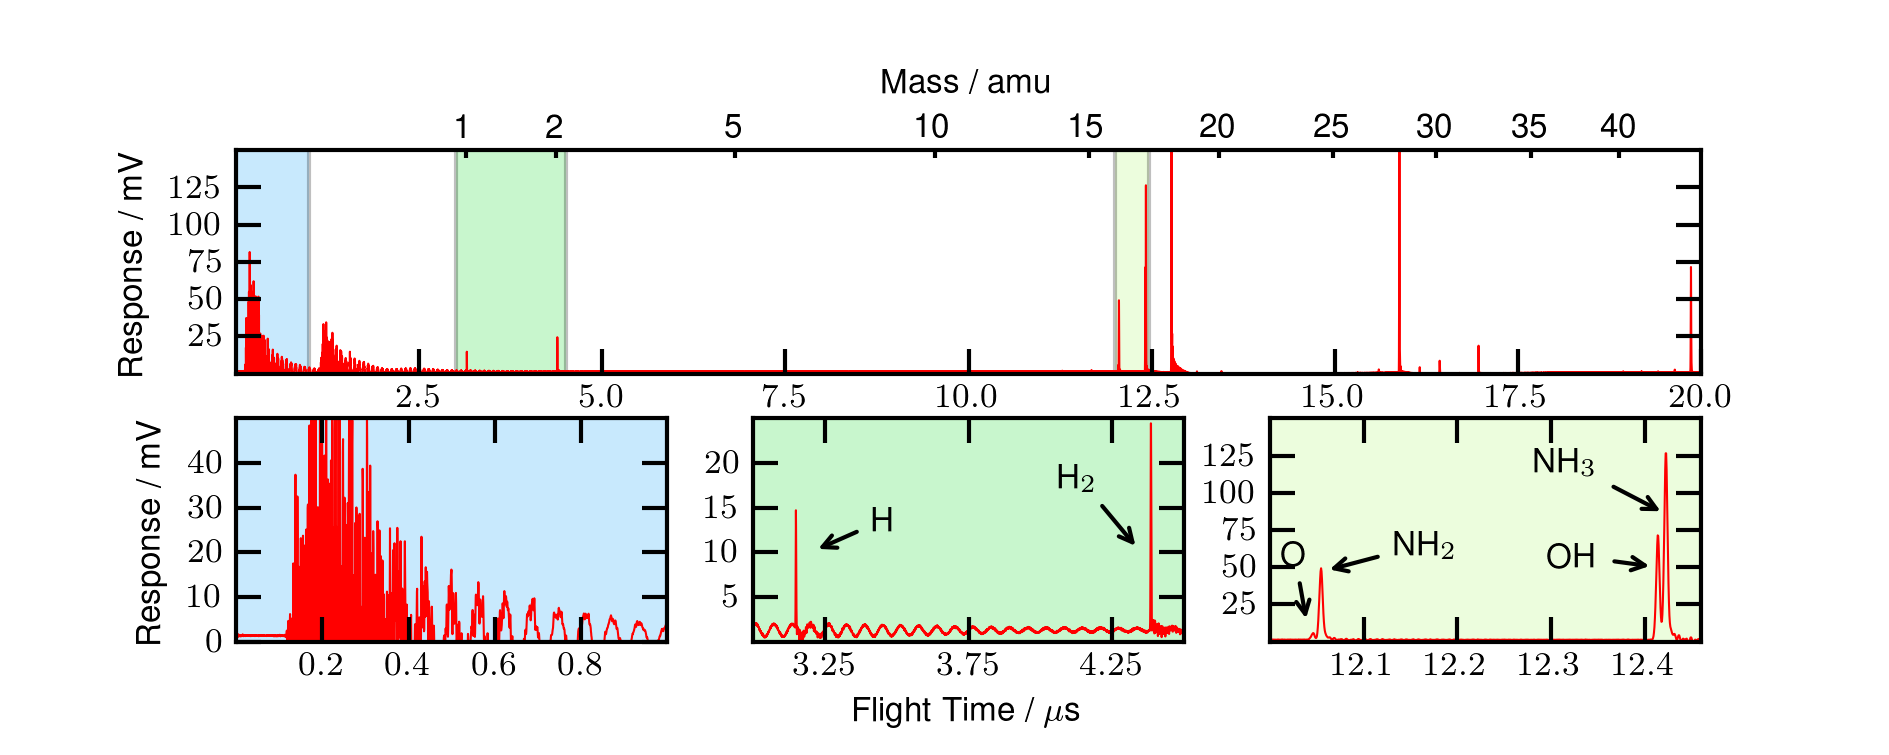
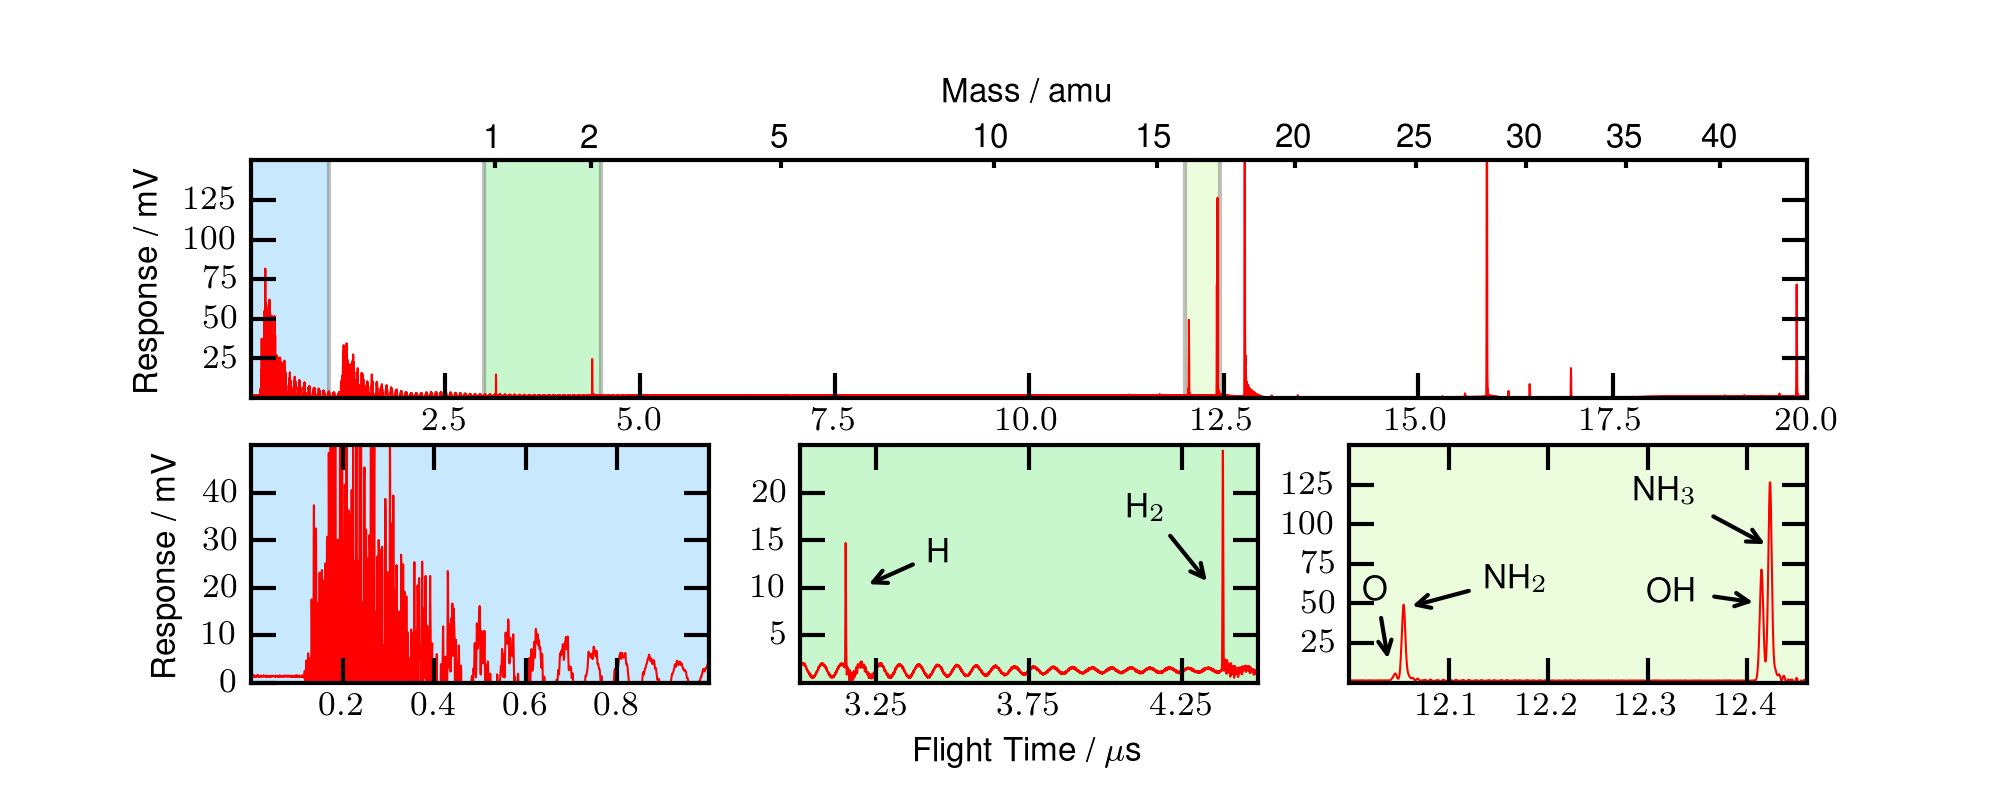
Changed figure sizes and resolutions

diff --git a/python_figures/dynamic_range.py b/python_figures/dynamic_range.py
@@ -21,7 +21,7 @@ cursor = db.cursor()
 fig = plt.figure()
 fig.subplots_adjust(bottom=0.2) # Make room for x-label
 fig.subplots_adjust(top=0.9) # Make room for extra x-label
-fig.subplots_adjust(wspace=0.25)
+fig.subplots_adjust(wspace=0.4)
 fig.subplots_adjust(hspace=0.25)
 ratio = 0.6
 fig_width = 8.5
@@ -43,12 +43,15 @@ masses.append(['O$_2$',16.972,8])
 
 x_ticks = []
 y_ticks = []
-x_ticks.append([12.767,12.777,12.787])
-x_ticks.append([4.377,4.387,4.397])
-x_ticks.append([16.962,16.972,16.982])
-y_ticks.append([100,200,300,400])
-y_ticks.append([5,10,15])
-y_ticks.append([0.2,0.4,0.6])
+#x_ticks.append([12.767,12.777,12.787])
+#x_ticks.append([4.377,4.387,4.397])
+#x_ticks.append([16.962,16.972,16.982])
+x_ticks.append([12.767,12.787])
+x_ticks.append([4.377,4.397])
+x_ticks.append([16.962,16.982])
+y_ticks.append([0,100,200,300,400])
+y_ticks.append([0,5,10,15])
+y_ticks.append([0,0.2,0.4,0.6])
 
 fit = []
 
@@ -113,5 +116,5 @@ for mass in masses:
 
 #plt.tight_layout()
 #plt.show()
-plt.savefig('../dynamic_range.png',dpi=300)
+plt.savefig('../dynamic_range.png',dpi=600)
 

diff --git a/python_figures/ammonia_OH_gauss_fit.py b/python_figures/ammonia_OH_gauss_fit.py
@@ -25,7 +25,7 @@ cursor = db.cursor()
 
 fig = plt.figure()
 fig.subplots_adjust(bottom=0.22) # Make room for x-label
-fig.subplots_adjust(top=0.8) # Make room for extra x-label
+fig.subplots_adjust(top=0.79) # Make room for extra x-label
 ratio = 0.4                     # This figure should be very wide to span two columns
 fig_width = 8.5
 fig_width = fig_width /2.54     # width in cm converted to inches

diff --git a/python_figures/ammonia_reactivity.py b/python_figures/ammonia_reactivity.py
@@ -133,4 +133,4 @@ axis2.tick_params(direction='in', length=6, width=1, colors='k',labelsize=8,axis
 
 #plt.tight_layout()
 plt.show()
-plt.savefig('../ammonia_reactivity.png',dpi=300)
+plt.savefig('../ammonia_reactivity.png',dpi=600)

diff --git a/python_figures/tof_raw.py b/python_figures/tof_raw.py
@@ -128,4 +128,4 @@ axis.annotate('NH$_3$', xy=(12.425, 85),  xycoords='data', xytext=(12.35, 130), 
 
 #plt.tight_layout()
 plt.show()
-plt.savefig('../untreated_data.png',dpi=300)
+plt.savefig('../untreated_data.png',dpi=600)
